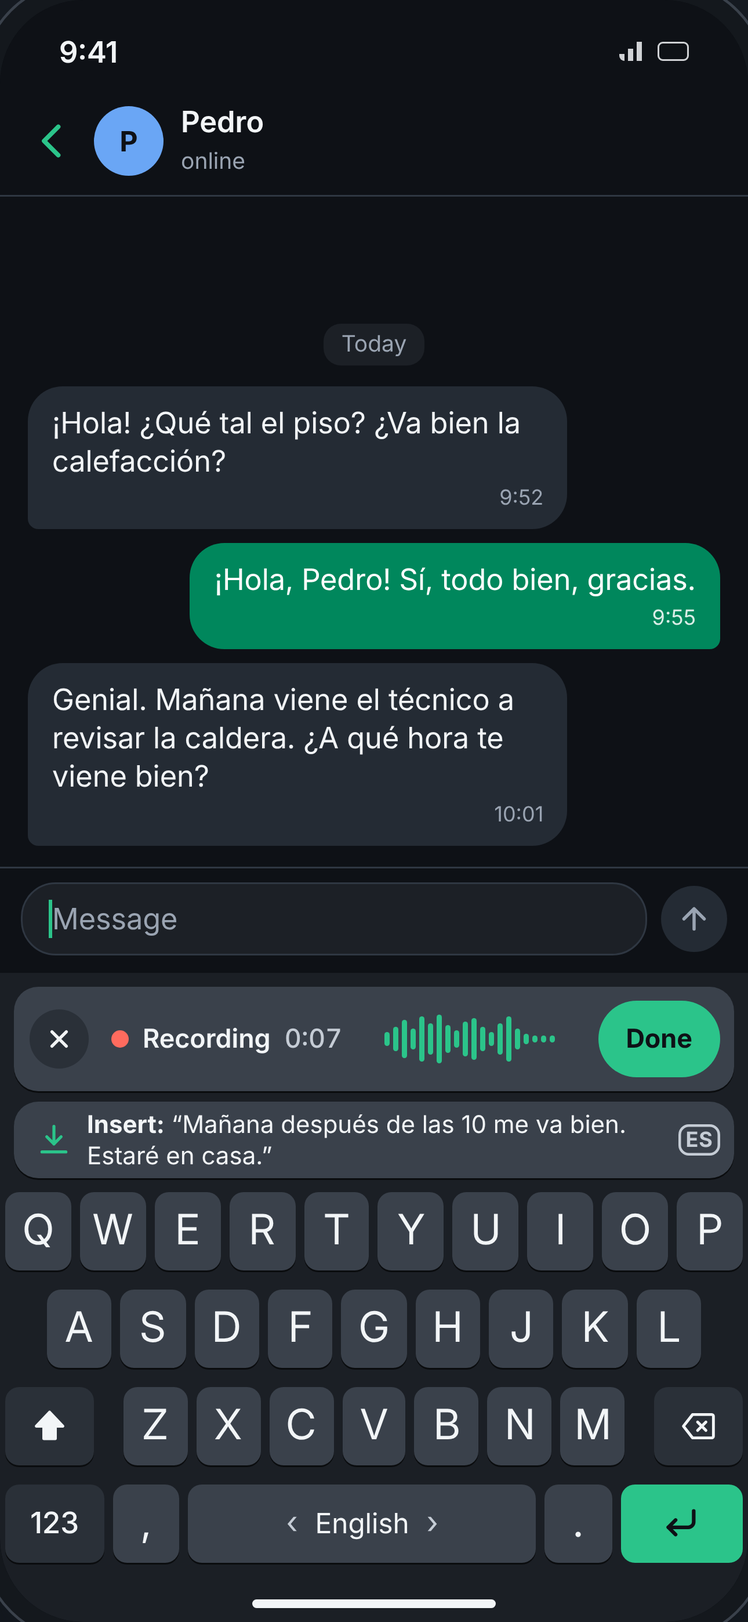
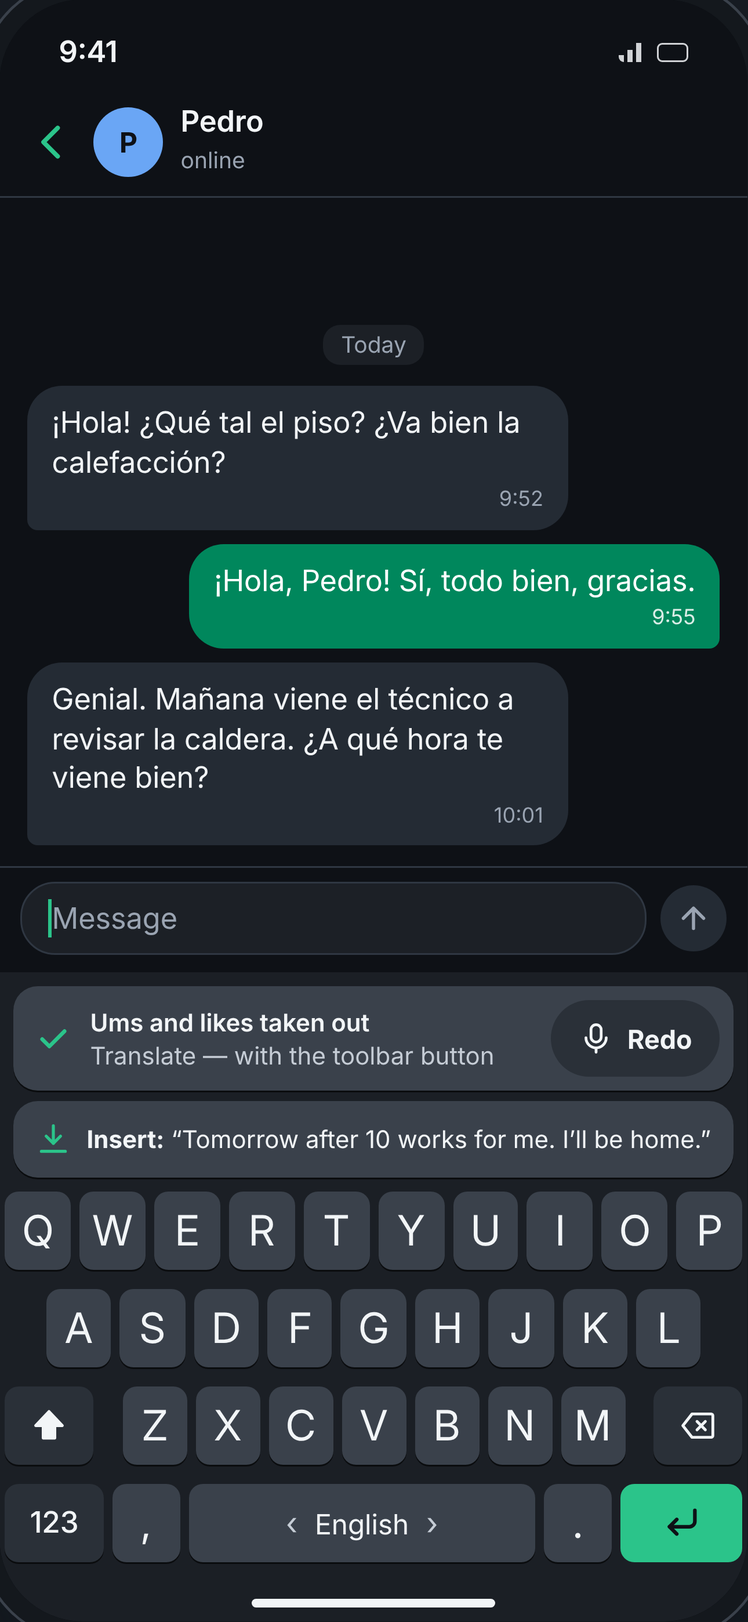
kb-translate: диктовка вставляет ясный текст, перевод — отдельной кнопкой (решение 18.11)
Claude-Session: https://claude.ai/code/session_01XzoWkW25V1nW2Qv4cEPq3n

diff --git a/site-v4/ref/kb-translate.html b/site-v4/ref/kb-translate.html
@@ -122,7 +122,7 @@ body{margin:0;background:#0B0E12;color:#F2F5F7;font:400 16px/1.5 Inter,system-ui
 .kb-translate-strip.st{padding-right:8px}
 .kb-translate-strip.pg{padding-bottom:8px}
 .kb-translate-strip.pg .tx{padding-left:4px}
-.kb-translate-a.s .un{width:20px;height:20px}
+.kb-translate-a.s .un,.kb-translate-a.s .mc{width:20px;height:20px}
 .kb-translate-a.q{flex:none;background:transparent;color:var(--kb-tx);padding:0 12px}
 .kb-translate-a.p.n{flex:none}
 .kb-translate-a.p.n svg{width:20px;height:20px}
@@ -213,7 +213,7 @@ ru:{html:'ru',
  doneB:'Перевели на испанский',was:'Было: ',undo:'Отменить',undoA:'Отменить перевод, вернуть русский текст',
  errB:'Не получилось перевести',errS:'Текст не изменился',retry:'Повторить',
  offB:'Нет сети',offS:'Печатать можно, для перевода нужна связь',
- rec:'Идёт запись',recT:'0:07',recX:'Отменить запись',recDone:'Готово',insL:'Вставить:',insA:'Вставить перевод в поле',
+ rec:'Идёт запись',recT:'0:07',recX:'Отменить запись',recDone:'Готово',insL:'Вставить:',insA:'Вставить текст в поле',dicB:'Без «ну» и «короче»',dicS:'Перевести — кнопкой на панели',again:'Заново',againA:'Записать заново',
  /* страница */
  title:'Parrlo · клавиатура, перевод',t_draft:'Черновик текста',t_mock:'Макет · скоро',
  h1:'Клавиатура Parrlo · «Перевести»: тот же черновик по‑испански',
@@ -224,7 +224,7 @@ ru:{html:'ru',
  light:'Светлая',dark:'Тёмная',
  st:{translating:['Переводим','Нажали «Перевести»: иконка в панели подсвечена и крутится, в полосе ход и «Отмена». Текст в поле не тронут до ответа.'],
   translated:['Перевели','Испанский текст уже в поле вместо русского. В полосе — что было и «Отменить»; отправляешь кнопкой мессенджера.'],
-  dictation:['Диктовка','Говоришь по‑русски: полоса «Идёт запись» с таймером, ✕ и «Готово», под ней чип «Вставить» с уже переведённой фразой.'],
+  dictation:['Диктовка','Запись закончена: сказанное по‑русски стало ясной фразой без «ну» и «короче». Чип «Вставить» кладёт её в поле на твоём языке; перевод — отдельно, кнопкой «Перевести» на панели. «Заново» — записать ещё раз.'],
   error:['Не получилось перевести','Сервер не ответил: русский текст на месте, причина словами и «Повторить».'],
   offline:['Нет сети','Связи нет: перевод, «Улучшить», диктовка и голос приглушены, печатать и открыть настройки можно.']},
  hDec:'Решения',dec:[
@@ -233,7 +233,7 @@ ru:{html:'ru',
   '<b>Раскладка после перевода — родная (русская).</b> Дальше пишешь ты: дописать, ответить на следующее сообщение — по‑русски, и снова «Перевести». Править испанский руками — редкий случай, для него есть смахивание по пробелу «‹ Русский ›». Автоматическая смена раскладки сбивала бы набор, а кадры «до» и «после» перестали бы совмещаться.',
   '<b>Одна полоса статуса</b>: «Переводим», «Перевели», ошибка, «Нет сети» и «Идёт запись» сменяют друг друга на одном месте.',
   '<b>Пока переводим, поле не трогаем</b>: можно отменить запрос; кнопка «Перевести» в панели подсвечена и показывает ход.',
-  '<b>Диктовка сразу в перевод</b>: под полосой «Идёт запись» вместо панели — чип «Вставить: «…»» с фразой на языке собеседника и меткой «ES». Вставка только по касанию.',
+  '<b>Решено 18.11: диктовка вставляет ясный текст, перевод — отдельно.</b> После записи вместо панели — чип «Вставить: «…»» с ясной фразой на твоём языке, как dictation-insert в kb-switch; в полосе — «Без «ну» и «короче»» и подсказка «Перевести — кнопкой на панели». Вставка только по касанию, перевод — следующим шагом.',
   '<b>Ошибка с действием</b>: что случилось, что с текстом («Текст не изменился») и «Повторить» — главная кнопка.',
   '<b>Нет сети</b>: облачные функции приглушены и помечены aria-disabled, печать и настройки работают.',
   '<b>Своей кнопки отправки у клавиатуры нет</b>: после перевода активна кнопка мессенджера.'],
@@ -241,8 +241,8 @@ ru:{html:'ru',
  hNo:'Не утверждено',no:[
   'Все тексты — черновик: «Переводим на испанский…», «Было: …», «Нет сети», подписи кнопок. Тексты es и en не вычитаны носителем.',
   'Родная раскладка после перевода — нужно решение; альтернатива — переключать на язык перевода, только если начинаешь править переведённый текст.',
-  'Кадр диктовки совмещает полосу «Идёт запись» (вариант Б, после выпуска) и чип «Вставить» (вариант А, в выпуске запись идёт в Parrlo Translate, чип — после возврата). Что показывать на сайте, решить до съёмки.',
-  'Переводит ли диктовка сразу (чип на языке собеседника) или вставляет сказанное как есть — в сборке не определено.',
+  'Кадр диктовки — конец записи на клавиатуре (вариант Б, после выпуска); в выпуске запись идёт в Parrlo Translate, чип «Вставить» — после возврата (вариант А). Что показывать на сайте, решить до съёмки.',
+  '<s>Переводит ли диктовка сразу или вставляет сказанное</s> — решено 18.11: диктовка вставляет ясный текст, перевод — отдельно.',
   'Сколько живёт «Отменить» после перевода: до следующего нажатия клавиши или до отправки.',
   'Как на сайте сказать, что язык собеседника задаётся в настройках Parrlo (GAP клавиатуры, №5).',
   'Цвет ошибки в тёмной клавиатуре #FF8A80 светлее токена #FF6B5E ради контраста на #3A414B.',
@@ -258,7 +258,7 @@ es:{html:'es',
  doneB:'Traducido al ruso',was:'Antes: ',undo:'Deshacer',undoA:'Deshacer la traducción y recuperar el texto en español',
  errB:'No se pudo traducir',errS:'Tu texto sigue igual',retry:'Reintentar',
  offB:'Sin conexión',offS:'Puedes escribir; traducir necesita conexión',
- rec:'Grabando',recT:'0:07',recX:'Cancelar grabación',recDone:'Listo',insL:'Insertar:',insA:'Insertar la traducción en el campo',
+ rec:'Grabando',recT:'0:07',recX:'Cancelar grabación',recDone:'Listo',insL:'Insertar:',insA:'Insertar el texto en el campo',dicB:'Sin «pues» ni «o sea»',dicS:'Traducir — con el botón del panel',again:'Repetir',againA:'Grabar de nuevo',
  title:'Parrlo · teclado, traducción',t_draft:'Texto provisional',t_mock:'Maqueta · próximamente',
  h1:'Teclado Parrlo · «Traducir»: el mismo borrador, en ruso',
  lead:'Segundo fotograma del par «antes → después» de la portada. El primero es kb-before: Olga, la casera, escribe en ruso y tú has escrito la respuesta en español. Tocas «Traducir» y en el mismo campo ya está el texto en ruso; solo queda enviarlo con el botón del mensajero. La estructura, la conversación y el teclado coinciden píxel a píxel con kb-before: solo cambian el campo y la franja. El teclado sigue el tema del móvil.',
@@ -268,7 +268,7 @@ es:{html:'es',
  light:'Claro',dark:'Oscuro',
  st:{translating:['Traduciendo','Tocaste «Traducir»: el icono del panel se ilumina y gira; la franja muestra el progreso y «Cancelar». El campo no cambia hasta tener respuesta.'],
   translated:['Traducido','El texto en ruso ya sustituye al español en el campo. La franja muestra lo que había y «Deshacer»; lo envías con el botón del mensajero.'],
-  dictation:['Dictado','Hablas en español: franja «Grabando» con tiempo, ✕ y «Listo»; debajo, el chip «Insertar» con la frase ya traducida.'],
+  dictation:['Dictado','Grabación terminada: lo que dijiste en español es ahora una frase clara, sin «pues» ni «o sea». El chip «Insertar» la pone en el campo en tu idioma; la traducción va aparte, con el botón «Traducir» del panel. «Repetir» graba otra vez.'],
   error:['No se pudo traducir','El servidor no respondió: tu texto sigue en el campo, el motivo con palabras y «Reintentar».'],
   offline:['Sin conexión','No hay red: Traducir, Mejorar, Dictado y Nota de voz se atenúan; puedes escribir y abrir los ajustes.']},
  hDec:'Decisiones',dec:[
@@ -277,7 +277,7 @@ es:{html:'es',
   '<b>Después de traducir, el teclado sigue siendo el tuyo (español).</b> Quien sigue escribiendo eres tú: añadir algo o contestar al siguiente mensaje, en español, y otra vez «Traducir». Retocar el ruso a mano es raro; para eso basta deslizar en la barra espaciadora. Cambiar de teclado solo te haría equivocarte y los fotogramas dejarían de encajar.',
   '<b>Una sola franja de estado</b>: «Traduciendo», «Traducido», error, «Sin conexión» y «Grabando» se turnan en el mismo sitio.',
   '<b>Mientras traducimos, el campo no se toca</b>: puedes cancelar; el botón «Traducir» del panel se ilumina y muestra el progreso.',
-  '<b>Dictado directo a traducción</b>: bajo la franja «Grabando», en lugar del panel, el chip «Insertar: «…»» con la frase en el idioma de la otra persona y la etiqueta «RU». Solo se inserta al tocarlo.',
+  '<b>Decidido el 18.11: el dictado inserta texto claro; la traducción va aparte.</b> Tras grabar, en lugar del panel, el chip «Insertar: «…»» con la frase clara en tu idioma, como dictation-insert en kb-switch; en la franja, «Sin «pues» ni «o sea»» y la pista «Traducir — con el botón del panel». Solo se inserta al tocarlo; traducir es el paso siguiente.',
   '<b>Error con acción</b>: qué pasó, qué pasa con el texto («Tu texto sigue igual») y «Reintentar» como botón principal.',
   '<b>Sin conexión</b>: las funciones en la nube se atenúan y llevan aria-disabled; escribir y los ajustes siguen funcionando.',
   '<b>El teclado no tiene botón de enviar</b>: tras traducir se activa el del mensajero.'],
@@ -285,8 +285,8 @@ es:{html:'es',
  hNo:'Pendiente de aprobar',no:[
   'Todos los textos son provisionales; el español y el inglés están sin revisar por un nativo.',
   'Teclado propio tras traducir: falta decidir; la alternativa es cambiar al idioma de la traducción solo si empiezas a corregirla.',
-  'El fotograma de dictado junta la franja «Grabando» (variante B, después del lanzamiento) y el chip «Insertar» (variante A: en el lanzamiento se graba en Parrlo Translate y el chip sale al volver). Decidir qué se muestra en la web.',
-  'Si el dictado se traduce enseguida (chip en el idioma de la otra persona) o se inserta tal cual: sin definir en la versión.',
+  'El fotograma de dictado muestra el final de la grabación en el teclado (variante B, después del lanzamiento); en el lanzamiento se graba en Parrlo Translate y el chip «Insertar» sale al volver (variante A). Decidir qué se muestra en la web.',
+  '<s>Si el dictado se traduce enseguida o se inserta tal cual</s>: decidido el 18.11, el dictado inserta texto claro; la traducción va aparte.',
   'Cuánto dura «Deshacer» tras traducir: hasta la siguiente tecla o hasta enviar.',
   'Cómo decir en la web que el idioma de la otra persona se elige en los ajustes de Parrlo (GAP del teclado, n.º 5).',
   'Color de error en el teclado oscuro #FF8A80, más claro que el token #FF6B5E para tener contraste sobre #3A414B.',
@@ -302,7 +302,7 @@ en:{html:'en',
  doneB:'Translated into Spanish',was:'Before: ',undo:'Undo',undoA:'Undo the translation and bring back the English text',
  errB:'Couldn’t translate',errS:'Your text hasn’t changed',retry:'Try again',
  offB:'No connection',offS:'You can type; translating needs a connection',
- rec:'Recording',recT:'0:07',recX:'Cancel recording',recDone:'Done',insL:'Insert:',insA:'Insert the translation into the field',
+ rec:'Recording',recT:'0:07',recX:'Cancel recording',recDone:'Done',insL:'Insert:',insA:'Insert the text into the field',dicB:'Ums and likes taken out',dicS:'Translate — with the toolbar button',again:'Redo',againA:'Record again',
  title:'Parrlo · keyboard, translation',t_draft:'Draft copy',t_mock:'Mockup · coming soon',
  h1:'Parrlo Keyboard · “Translate”: the same draft, now in Spanish',
  lead:'The second frame of the home page’s “before → after” pair. The first is kb-before: Pedro, the landlord, writes in Spanish and you’ve typed your reply in English. Tap Translate and the same field now holds the Spanish text — all that’s left is the messenger’s send button. Skeleton, thread and layout match kb-before pixel for pixel; only the field and the strip change. The keyboard follows the phone’s theme.',
@@ -312,7 +312,7 @@ en:{html:'en',
  light:'Light',dark:'Dark',
  st:{translating:['Translating','You tapped Translate: the toolbar icon lights up and spins, the strip shows progress and Cancel. The field stays as is until the result arrives.'],
   translated:['Translated','The Spanish text has replaced the English in the field. The strip shows what was there and Undo; you send it with the messenger’s button.'],
-  dictation:['Dictation','You speak English: a “Recording” strip with a timer, ✕ and Done; below it, an Insert chip with the sentence already translated.'],
+  dictation:['Dictation','Recording finished: what you said in English is now a clear sentence, ums and likes taken out. The Insert chip puts it in the field in your language; translating is separate, with the Translate button on the toolbar. Redo records again.'],
   error:['Couldn’t translate','The server didn’t respond: your text is still there, with the reason in plain words and Try again.'],
   offline:['No connection','No network: Translate, Improve, Dictate and Voice note are dimmed; you can still type and open Settings.']},
  hDec:'Decisions',dec:[
@@ -321,7 +321,7 @@ en:{html:'en',
   '<b>After translating, the layout stays your own (English).</b> You’re the one who keeps writing: adding a line or answering the next message happens in English, then Translate again. Editing the Spanish by hand is rare, and a swipe on the space bar covers it. Switching layouts automatically would trip up your typing and break the frame alignment.',
   '<b>One status strip</b>: Translating, Translated, the error, No connection and Recording take turns in the same place.',
   '<b>The field is left alone while translating</b>: you can cancel; the Translate button in the toolbar lights up and shows progress.',
-  '<b>Dictation straight into a translation</b>: under the Recording strip, in place of the toolbar, an “Insert: “…”” chip with the sentence in the other person’s language and an “ES” tag. It’s inserted only when you tap it.',
+  '<b>Decided 18.11: dictation inserts clear text; translation is separate.</b> After recording, in place of the toolbar, an “Insert: “…”” chip with the clear sentence in your language, as dictation-insert in kb-switch; the strip says “Ums and likes taken out” and hints “Translate — with the toolbar button”. It’s inserted only when you tap it; translating is the next step.',
   '<b>An error with an action</b>: what happened, what happened to the text (“Your text hasn’t changed”) and Try again as the primary button.',
   '<b>No connection</b>: cloud features are dimmed and marked aria-disabled; typing and Settings still work.',
   '<b>The keyboard has no send button of its own</b>: after translating, the messenger’s button becomes active.'],
@@ -329,8 +329,8 @@ en:{html:'en',
  hNo:'Not approved',no:[
   'All copy is draft; Spanish and English have not been proofread by native speakers.',
   'Own layout after translating needs a decision; the alternative is to switch to the target language only once you start editing the translation.',
-  'The dictation frame combines the Recording strip (option B, after launch) and the Insert chip (option A: at launch, recording happens in Parrlo Translate and the chip appears on return). Decide what the site shows.',
-  'Whether dictation is translated right away (chip in the other person’s language) or inserted as spoken isn’t settled in the build.',
+  'The dictation frame shows the end of recording on the keyboard (option B, after launch); at launch, recording happens in Parrlo Translate and the Insert chip appears on return (option A). Decide what the site shows.',
+  '<s>Whether dictation is translated right away or inserted as spoken</s>: decided 18.11, dictation inserts clear text; translation is separate.',
   'How long Undo lasts after translating: until the next keystroke or until sending.',
   'How the site says the other person’s language is set in Parrlo settings (keyboard GAP, no. 5).',
   'The error colour on the dark keyboard, #FF8A80, is lighter than the #FF6B5E token for contrast on #3A414B.',
@@ -343,19 +343,19 @@ ru:[
  '<b>Тёмная:</b> фон #1B1F25, клавиши и полоса #3A414B, служебные #2A3038, текст #F2F5F7, вторичный #C5CCD5, акцент #2BC48A / #0E1116, ошибка #FF8A80, точка записи #FF6B5E; чат — фон #0E1116, входящие #242B34, исходящие #00875C.',
  '<b>Контраст, светлая:</b> CONTRAST_L.','<b>Контраст, тёмная:</b> CONTRAST_D.',
  '<b>Не только цветом:</b> «Перевели» — галочка и слова, ошибка — значок «!» и текст, запись — точка, таймер и слово «Идёт запись», недоступные иконки — приглушены, aria-disabled и названы в полосе «Нет сети».',
- '<b>Зоны нажатия:</b> иконки панели 64×44, «Отменить», «Отмена», «Повторить», «Готово» и ✕ — 44 pt, чип «Вставить» — 44 pt во всю ширину, переключатель языка страницы 56×44.'],
+ '<b>Зоны нажатия:</b> иконки панели 64×44, «Отменить», «Отмена», «Повторить», «Готово», «Заново» и ✕ — 44 pt, чип «Вставить» — 44 pt во всю ширину, переключатель языка страницы 56×44.'],
 es:[
  '<b>Claro:</b> fondo #D3D7DC, teclas y franja #FFFFFF, teclas de función #ABB2BB, texto #0E1116, secundario #5B6472, acento #00875C / #FFFFFF, error #C42B1F, punto de grabación #C42B1F; chat: fondo #FFFFFF, recibidos #E9EDF0, enviados #D6F5E5.',
  '<b>Oscuro:</b> fondo #1B1F25, teclas y franja #3A414B, teclas de función #2A3038, texto #F2F5F7, secundario #C5CCD5, acento #2BC48A / #0E1116, error #FF8A80, punto de grabación #FF6B5E; chat: fondo #0E1116, recibidos #242B34, enviados #00875C.',
  '<b>Contraste, claro:</b> CONTRAST_L.','<b>Contraste, oscuro:</b> CONTRAST_D.',
  '<b>No solo con color:</b> «Traducido» lleva marca y texto; el error, icono «!» y texto; la grabación, punto, tiempo y la palabra «Grabando»; los iconos no disponibles se atenúan, llevan aria-disabled y la franja dice «Sin conexión».',
- '<b>Zonas táctiles:</b> iconos del panel 64×44; «Deshacer», «Cancelar», «Reintentar», «Listo» y ✕, 44 pt; chip «Insertar», 44 pt a todo el ancho; selector de idioma 56×44.'],
+ '<b>Zonas táctiles:</b> iconos del panel 64×44; «Deshacer», «Cancelar», «Reintentar», «Listo», «Repetir» y ✕, 44 pt; chip «Insertar», 44 pt a todo el ancho; selector de idioma 56×44.'],
 en:[
  '<b>Light:</b> background #D3D7DC, keys and strip #FFFFFF, function keys #ABB2BB, text #0E1116, secondary #5B6472, accent #00875C / #FFFFFF, error #C42B1F, recording dot #C42B1F; chat: background #FFFFFF, incoming #E9EDF0, outgoing #D6F5E5.',
  '<b>Dark:</b> background #1B1F25, keys and strip #3A414B, function keys #2A3038, text #F2F5F7, secondary #C5CCD5, accent #2BC48A / #0E1116, error #FF8A80, recording dot #FF6B5E; chat: background #0E1116, incoming #242B34, outgoing #00875C.',
  '<b>Contrast, light:</b> CONTRAST_L.','<b>Contrast, dark:</b> CONTRAST_D.',
  '<b>Not by colour alone:</b> Translated has a check mark and words; the error has a “!” icon and text; recording has a dot, a timer and the word “Recording”; unavailable icons are dimmed, aria-disabled and named by the No connection strip.',
- '<b>Touch targets:</b> toolbar icons 64×44; Undo, Cancel, Try again, Done and ✕ 44 pt; the Insert chip 44 pt, full width; page language switch 56×44.']};
+ '<b>Touch targets:</b> toolbar icons 64×44; Undo, Cancel, Try again, Done, Redo and ✕ 44 pt; the Insert chip 44 pt, full width; page language switch 56×44.']};
 
 /* контраст считается из цветов на лету */
 function lum(h){const c=[1,3,5].map(i=>parseInt(h.substr(i,2),16)/255).map(v=>v<=.03928?v/12.92:Math.pow((v+.055)/1.055,2.4));return .2126*c[0]+.7152*c[1]+.0722*c[2];}
@@ -388,9 +388,9 @@ const S={
   strip:`<div class="kb-translate-strip st pg" role="status"><span class="tx"><b>${c.ingB}</b><span>${c.ingS}</span></span><span class="kb-translate-a q" role="button">${c.cancel}</span><span class="kb-translate-prog" aria-hidden="true"><i></i></span></div>`}),
  translated:c=>({field:c.out,flang:c.to,car:'post',up:0,send:1,on:1,
   strip:`<div class="kb-translate-strip st" role="status">${I.check}<span class="tx"><b>${c.doneB}</b><span>${c.was}${c.draft}</span></span><span class="kb-translate-a s" role="button" aria-label="${c.undoA}">${I.undo}${c.undo}</span></div>`}),
- dictation:c=>({field:`<span class="pl">${c.ph}</span>`,car:'pre',up:1,send:0,on:2,
-  strip:`<div class="kb-translate-strip rec" role="status"><span class="kb-translate-rx" role="button" aria-label="${c.recX}"><span>${I.x}</span></span><i class="kb-translate-rdot"></i><span class="kb-translate-rl">${c.rec}</span><span class="kb-translate-rt">${c.recT}</span><span class="kb-translate-wv" aria-hidden="true">${WAVE.map(h=>`<i style="height:${h}px"></i>`).join('')}</span><span class="kb-translate-a p n" role="button">${c.recDone}</span></div>`,
-  bar:`<div class="kb-translate-insr"><span class="kb-translate-ins" role="button" aria-label="${c.insA}">${I.ins}<span class="t"><b>${c.insL}</b> <span lang="${c.to}">${c.q[0]}${c.out}${c.q[1]}</span></span><small>${c.toTag}</small></span></div>`}),
+ dictation:c=>({field:`<span class="pl">${c.ph}</span>`,car:'pre',up:1,send:0,
+  strip:`<div class="kb-translate-strip st" role="status">${I.check}<span class="tx"><b>${c.dicB}</b><span>${c.dicS}</span></span><span class="kb-translate-a s" role="button" aria-label="${c.againA}">${I.mic.replace('<svg ','<svg class="mc" ')}${c.again}</span></div>`,
+  bar:`<div class="kb-translate-insr"><span class="kb-translate-ins" role="button" aria-label="${c.insA}">${I.ins}<span class="t"><b>${c.insL}</b> ${c.q[0]}${c.draft}${c.q[1]}</span></span></div>`}),
  error:c=>({field:c.draft,car:'post',up:0,send:1,
   strip:`<div class="kb-translate-strip st" role="alert">${I.alert}<span class="tx"><b>${c.errB}</b><span>${c.errS}</span></span><span class="kb-translate-a p n" role="button">${I.retry}${c.retry}</span></div>`}),
  offline:c=>({field:c.draft,car:'post',up:0,send:1,off:1,
